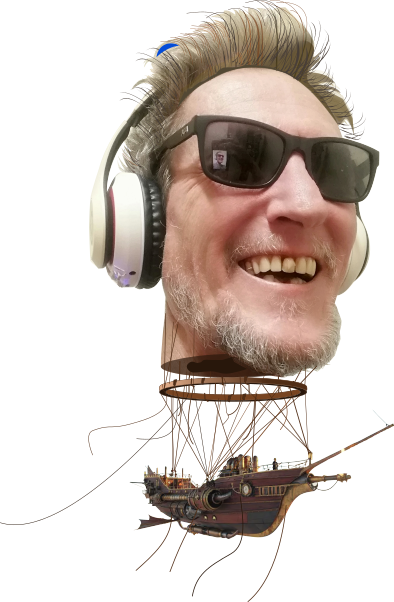
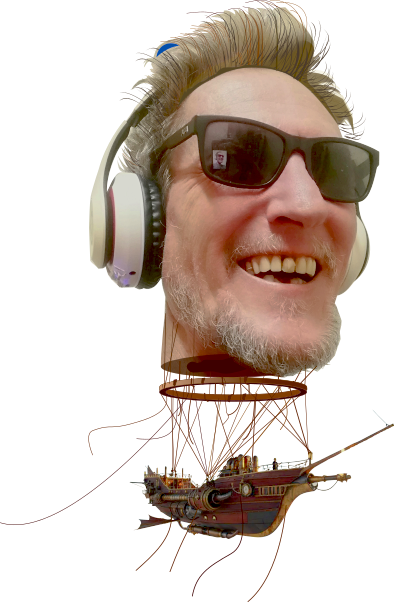
Feat: added a preview thumbnail omage for sharing, uploaded a digitalized hero background image and porfile image in the about section.

diff --git a/index.html b/index.html
@@ -6,16 +6,32 @@
   <meta name="viewport" content="width=device-width, initial-scale=1.0">
   <title>Pieter Coetzer Portfolio</title>
 
+<meta name="description" content="Portfolio of my graphic design and web developing work.">
+
+  <!-- Open Graph / Facebook / LinkedIn / Discord -->
+  <meta property="og:type" content="website">
+  <meta property="og:url" content="https://coetz3r.github.io/portfolio/">
+  <meta property="og:title" content="my portfolio website">
+  <meta property="og:description" content="Samples of graphic design and web developing and repos.">
+  <meta property="og:image" content="https://coetz3r.github.io/portfolio/assets/preview.jpeg">
+
+  <!-- Twitter / X -->
+  <meta name="twitter:card" content="summary_large_image">
+  <meta name="twitter:url" content="https://coetz3r.github.io/portfolio/">
+  <meta name="twitter:title" content="my portfolio website">
+  <meta name="twitter:description" content="Samples of graphic design and web developing and repos.">
+  <meta name="twitter:image" content="https://coetz3r.github.io/portfolio/assets/preview.jpeg">
+  <!-- style sheets-->
   <link rel="stylesheet" href="assets/css/style.css">
   <link rel="stylesheet" href="assets/css/slide.css">
   <link rel="stylesheet" href="assets/css/animations.css">
- 
-<link rel="icon" type="image/x-icon" href="assets/img/favicon.ico">
+  <!-- fav icon -->
+  <link rel="icon" type="image/x-icon" href="assets/img/favicon.ico">
 
-<link rel="apple-touch-icon" sizes="180x180" href="assets/img/apple-touch-icon.png">
-<link rel="icon" type="image/png" sizes="32x32" href="assets/img/favicon-32x32.png">
-<link rel="icon" type="image/png" sizes="16x16" href="assets/img/favicon-16x16.png">
-<link rel="manifest" href="assets/img/site.webmanifest">
+  <link rel="apple-touch-icon" sizes="180x180" href="assets/img/apple-touch-icon.png">
+  <link rel="icon" type="image/png" sizes="32x32" href="assets/img/favicon-32x32.png">
+  <link rel="icon" type="image/png" sizes="16x16" href="assets/img/favicon-16x16.png">
+  <link rel="manifest" href="assets/img/site.webmanifest">
 
   <link rel="preconnect" href="https://fonts.googleapis.com">
   <link rel="preconnect" href="https://fonts.gstatic.com" crossorigin>
@@ -23,7 +39,6 @@
   <link rel="stylesheet" href="https://cdnjs.cloudflare.com/ajax/libs/font-awesome/6.0.0-beta3/css/all.min.css">
 
 </head>
-
 <body>
 
   <div class="layout" id="layout"><!-- LAYOUT - everythings that slides -->
@@ -362,7 +377,7 @@
 
                 <div class="about-image">
                   <div class="image-card">
-                    <img src="assets/img/profile.png" alt="my profile pic" loading="lazy">
+                    <img src="assets/img/profile.jpeg" alt="my profile pic" loading="lazy">
                   </div>
                   <div class="floating-badge">
                     <i class="fas fa-medal"></i> 5+ years of excellence

diff --git a/assets/css/style.css b/assets/css/style.css
@@ -847,7 +847,7 @@ footer { background: #020218; padding: 32px 60px; display: flex; gap: 0.5rem;
    ========================================================================== */
 .hero-container {
   width: 100%; height: 650px; overflow: hidden; position: relative;
-  background-image: url('../img/hero-bg.webp');
+  background-image: url('../img/hero-bg.png');
   background-repeat: no-repeat; background-size: cover; background-position: bottom;
 }
 
